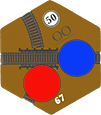
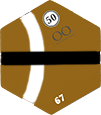
more work

diff --git a/mainWindow.py b/mainWindow.py
@@ -278,7 +278,7 @@ class MainWindow(QWidget):
                 if self.currentStation == buttonName:
                     print("******In attempt to reset station button")
                     self.stationButtons[stationSlot].setIcon(icon) 
-                    icon = QIcon()
+                    icon = QIcon(self.getImage("greyDot"))
                     stationSlot = self.findCityButton(self.currentCityButton)
                     self.cityButtons[stationSlot].setIcon(icon)
                     self.currentStation = "stn 100"
@@ -409,7 +409,7 @@ class MainWindow(QWidget):
             
             if self.currentCityButton != "":                                # used to blank out a station icon if another station is clicked before finalizing with company
                 cityObj = self.findCityObj(self.currentCityButton)
-                if cityObj.text() == 0:
+                if cityObj and cityObj.text() == 0:
                     hexagName = buttonName[4:8]
                     self.resetCityButton(self.board.findhexagName(hexagName))
             if int(self.currentStation[4:]) < 100:                          # if a station icon was clicked set the station token to that icon
@@ -446,10 +446,14 @@ class MainWindow(QWidget):
     
     # method to set a city button back to grey or clear depending on if two or one cities
     def resetCityButton(self, hexag):
-        print("in reset cityButton")
+        print(f"in reset cityButton Color = {hexag.color}")
         icon = QIcon()
         if hexag.color == "yellow":
             self.drawCity(hexag, 1, 1)
+        if hexag.color == "":
+            self.drawCity(hexag, 1, 0)
+        if hexag.color == "green":
+            self.drawCity(hexag, 2, 1)
         if self.currentCityButton != "":
             stationSlot = self.findCityButton(self.currentCityButton)
             print(f"hexag color = {hexag.color}")
@@ -510,25 +514,33 @@ class MainWindow(QWidget):
                     cityList.append(cityObj)
                 else:
                     cityList.append("0")
-        print(f"^^^^^cityList {cityList}")
+        print(f"^^^^^cityList {cityList} num of cities {numberOfCities} tile present {tilePresent}")
                                     
-        index = 0        
+        index = 0 
+        cityExists = 0
         if numberOfCities == 1 and tilePresent == 0:
             for city in oneCityHexag:
+                print(f"city {city} hex name {hexag.hexag_name}")
                 if hexag.hexag_name == city:
                     cityIndex = index
+                    cityExists = 1
                     break
                 index +=1
-            adjX = oneCityAdj[cityIndex][0]
-            adjY = oneCityAdj[cityIndex][1]
-            cityList[0].setGeometry((50*hexagCol)-38+adjX, (87*hexagRow)-35+adjY, 40, 40)
-            cityList[1].setGeometry((50*hexagCol)-38+adjX, (87*hexagRow)-35+adjY, 40, 40)
+            if cityExists == 1:
+                print(f"city index {cityIndex}")
+                adjX = oneCityAdj[cityIndex][0]
+                adjY = oneCityAdj[cityIndex][1]
+                for i in range (2):
+                    cityList[i].setGeometry((50*hexagCol)-38+adjX, (87*hexagRow)-35+adjY, 40, 40)
+                    cityList[i].setIcon(QIcon())
+            self.currentCityButton = ""
             
         if numberOfCities == 1 and tilePresent == 1:
+            icon = QIcon(self.getImage("greyDot"))
             for i in range (2):
                 cityList[i].setGeometry((50*hexagCol)-38, (87*hexagRow)-35, 40, 40)
-                if cityList[i].text() == 0:
-                    cityList[i].setIcon(QIcon())
+                if cityList[i].text() == "0":
+                    cityList[i].setIcon(icon)
             
         if numberOfCities == 2 and tilePresent == 0:
             for i in range(2):
@@ -559,6 +571,9 @@ class MainWindow(QWidget):
                         cityList[1].setIcon(icon1)
                     else:
                         cityList[1].setIcon(icon) 
+            else:
+                cityList[0].setIcon(icon) 
+                cityList[1].setIcon(icon)
         
         
     
